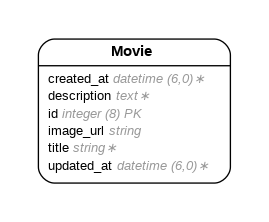
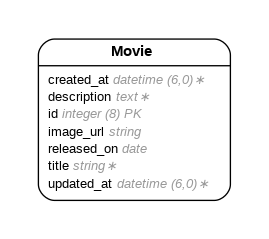
more partials

Changed region(s): [[0.119, 0.1351, 0.8625, 0.8649]]

diff --git a/db/schema.rb b/db/schema.rb
@@ -10,7 +10,7 @@
 #
 # It's strongly recommended that you check this file into your version control system.
 
-ActiveRecord::Schema[8.0].define(version: 2025_04_02_142608) do
+ActiveRecord::Schema[8.0].define(version: 2025_04_02_144824) do
   # These are extensions that must be enabled in order to support this database
   enable_extension "pg_catalog.plpgsql"
 
@@ -20,5 +20,6 @@ ActiveRecord::Schema[8.0].define(version: 2025_04_02_142608) do
     t.datetime "created_at", null: false
     t.datetime "updated_at", null: false
     t.string "image_url"
+    t.date "released_on"
   end
 end

diff --git a/app/controllers/movies_controller.rb b/app/controllers/movies_controller.rb
@@ -53,8 +53,8 @@ class MoviesController < ApplicationController
 
   private
 
-  def mvie_params
-    params.require(:movie).permit(:title, :description, :image_url)
+  def movie_params
+    params.require(:movie).permit(:title, :description, :image_url, :released_on)
   end
 
 end

diff --git a/app/models/movie.rb b/app/models/movie.rb
@@ -5,6 +5,7 @@
 #  id          :bigint           not null, primary key
 #  description :text
 #  image_url   :string
+#  released_on :date
 #  title       :string
 #  created_at  :datetime         not null
 #  updated_at  :datetime         not null

diff --git a/db/migrate/20250402144824_add_released_on_to_movies.rb b/db/migrate/20250402144824_add_released_on_to_movies.rb
@@ -1,0 +1,5 @@
+class AddReleasedOnToMovies < ActiveRecord::Migration[8.0]
+  def change
+    add_column :movies, :released_on, :date
+  end
+end
